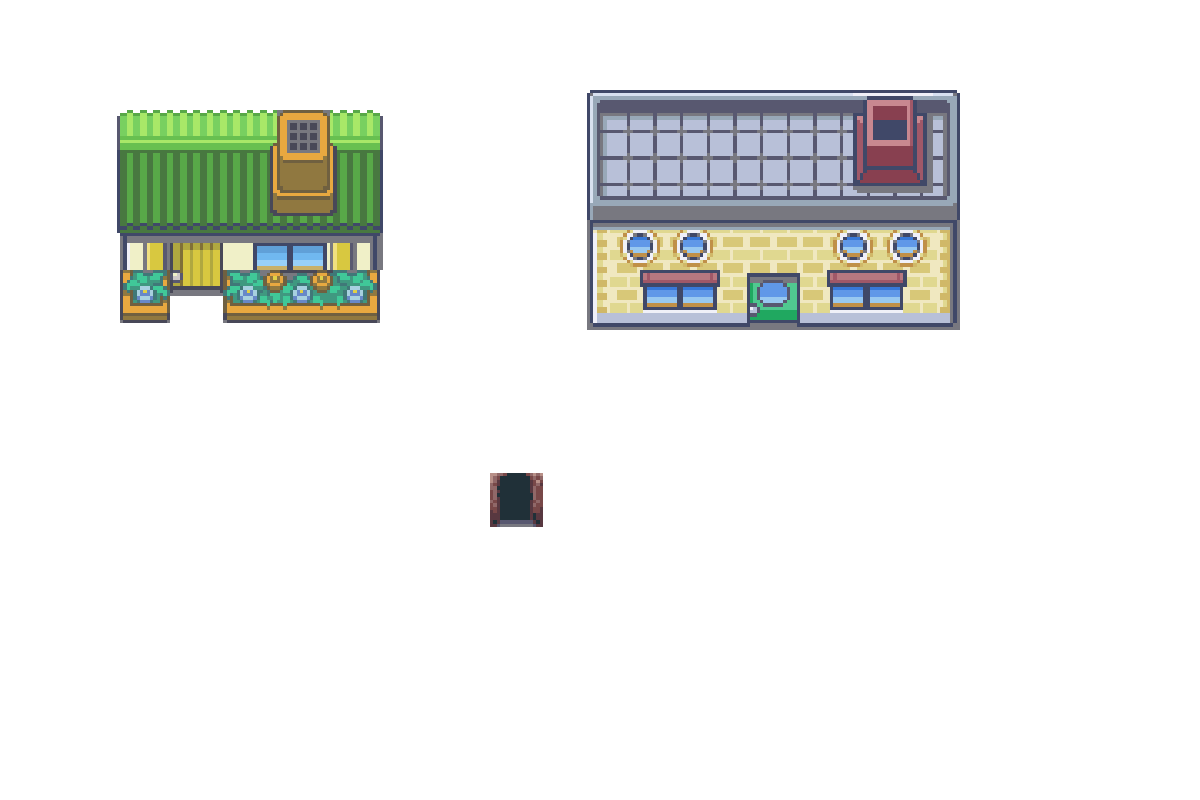
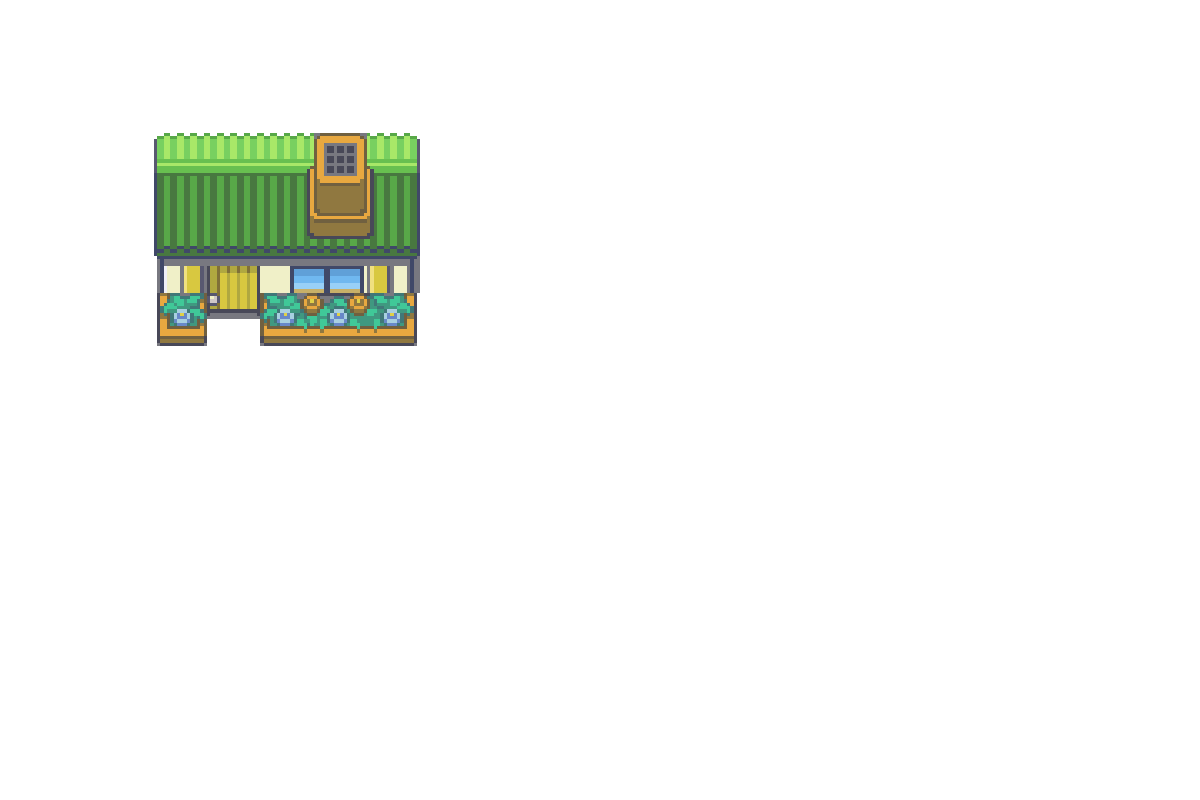
feat: hover objects

Changed region(s): [[0.4625, 0.0938, 0.8017, 0.4375], [0.0925, 0.125, 0.37, 0.4375], [0.4008, 0.5938, 0.4625, 0.6562]]

diff --git a/Visualize/LoginScreen.py b/Visualize/LoginScreen.py
@@ -9,6 +9,7 @@ from Visualize.morph_image import blur_screen
 
 FILENAME = "miniTown_BG.png"
 
+
 # [PROTOTYPE]
 PARAMS = {
     "resources": "Visualize/Resources/",
@@ -26,6 +27,12 @@ OBJECTS_POS_RES = {
     "Login" : ((103, 227), (260,210)),
     "Register" : (10, 22),
     "Exit" : (13, 4)
+}
+
+HOVER_IMG = {
+    "Login": "miniTown_BG_login_hover.png",
+    "Register": "miniTown_BG_register_hover.png",
+    "Exit": "miniTown_BG_exit_hover.png"
 }
 # [PROTOTYPE]
 WHITE = (200, 200, 200)
@@ -58,8 +65,8 @@ class LoginScreen:
         :param path_resources:
         """
         self.resolution, self.cell = res_cel
-        self.frame = morph_image(path_resources + FILENAME, self.resolution)
         self.pth_re = path_resources
+        self.frame = morph_image(self.pth_re + FILENAME, self.resolution)
         print(self.pth_re)
         self.screen = screen
         self.door_pos = {
@@ -75,6 +82,7 @@ class LoginScreen:
         :return:
         """
 
+        
         # Background and stuff go here
         self.screen.blit(self.frame, (0, 0))
         # drawGrid(screen=self.screen)
@@ -93,78 +101,73 @@ class LoginScreen:
             (self.resolution[0] - panel_shape[0]) / 2, (self.resolution[1] - panel_shape[1]) / 2))
         self.create_font()  # Create font for text input
 
+        #flag of getting an object
+        self.chosen_obj = None
+        self.hovered_obj = None
 
-        # a class to handle objects
-        class House:
-            def __init__(self, name, on_hover=False):
-                self.pth_re = "Visualize/Resources/"
-                self.name = name
-                if on_hover:
-                    self.box = morph_image(self.pth_re + self.name + "_hover.png", OBJECTS_POS_RES[self.name][1])
-                else:
-                    self.box = morph_image(self.pth_re + self.name + "_unhover.png", OBJECTS_POS_RES[self.name][1])
-                self.pos = OBJECTS_POS_RES[self.name][0]
-
-            def get_box(self):
-                return self.box
-                                
-
-        self.running = True
+        self.running = True 
         while self.running:
 
-            for event in pygame.event.get():
-                if event.type == pygame.QUIT:
-                    running = False
-                    # pygame.quit()
-                    return False  # Fucking transmit signal to another scene here, this is just a prototype
-                
-                if event.type == pygame.KEYDOWN:
-                    pressed = event.key
-                    if self.player.handle_event(pressed):  # Handle interact from player
-                        pass
-                    if self.player.get_grid_pos() in self.door_pos:
-                        self.textinput_custom.update(events)
-                        self.toggle_panel(event, self.door_pos[self.player.get_grid_pos()])
-                        continue
-                    self.player.update(
-                        self.screenCopy)  # NEED TO OPTIMIZED, https://stackoverflow.com/questions/61399822/how-to-move-character-in-pygame-without-filling-background
-                
-                # handle click event
-                if event.type == pygame.MOUSEBUTTONDOWN:
-                    print(pos)
-                    if pygame.mouse.get_pressed()[0]:
-                        pos = pygame.mouse.get_pos() 
-                        x, y = (pos[1] // PARAMS["cell"][0]), (pos[0] // PARAMS["cell"][1])
-                        for key in OBJECTS.keys():
-                            if [x,y] in OBJECTS[key]:
-                                self.toggle_panel(event, key)
-                                break
-                        self.player.update(self.screenCopy)            
-
-
-            # check if mouse is on object
+            #get mouse position
             pos = pygame.mouse.get_pos() 
             x, y = (pos[1] // PARAMS["cell"][0]), (pos[0] // PARAMS["cell"][1])
 
-            cur_obj = None
-            for key in OBJECTS.keys():
-                if [x,y] in OBJECTS[key]:
-                    cur_obj = key
-                    break   
+            # handle hover event [NEED TO OPTIMIZE]
+            if not self.chosen_obj: #if not chosen any object
+                for key in OBJECTS.keys():
+                    if [x,y] in OBJECTS[key]:
+                        self.hovered_obj = key
+                        break   
 
-            if cur_obj:
-                house = House(cur_obj, on_hover=True)
-                house_box = house.get_box()
-                self.screen.blit(house_box, (house.pos[0], house.pos[1]))
-                pygame.display.flip()
-            else:
-                for key in ["Login"]: #OBJECTS.keys(): fix later
-                    house = House(key, on_hover=False)
-                    house_box = house.get_box()
-                    self.screen.blit(house_box, (house.pos[0], house.pos[1]))
-                    pygame.display.flip()
+                if self.hovered_obj :
+                    self.frame = morph_image(self.pth_re + HOVER_IMG[self.hovered_obj], self.resolution)
+                    self.screen.blit(self.frame, (0, 0))
+                    self.screenCopy = self.screen.copy()
+                    self.player.update(self.screenCopy)
+                    self.hovered_obj = None
+                else:
+                    self.frame = morph_image(self.pth_re + FILENAME, self.resolution)
+                    self.screen.blit(self.frame, (0, 0))
+                    self.screenCopy = self.screen.copy()
+                    self.player.update(self.screenCopy)
+
+
+            events = pygame.event.get()
+            for event in events:
+
+                if event.type == pygame.QUIT:
+                    self.running = False
+                    # pygame.quit()
+                    return False  # Fucking transmit signal to another scene here, this is just a prototype
                 
+                # handle click event
+                if event.type == pygame.MOUSEBUTTONDOWN and not self.chosen_obj:
+                    if pygame.mouse.get_pressed()[0]:
+                        for key in OBJECTS.keys():
+                            if [x,y] in OBJECTS[key]:
+                                self.chosen_obj = key
+                                self.toggle_panel(event, self.chosen_obj)
+                                break
+                
+                if event.type == pygame.KEYDOWN:  
+                    if self.chosen_obj: # if theres already a chosen object
+                        self.textinput_custom.update(events)
+                        self.toggle_panel(event, self.chosen_obj)
+                        continue  
+                    pressed = event.key
+                    if self.player.handle_event(pressed):  # Handle interact from player
+                        pass
+                    if self.player.get_grid_pos() in self.door_pos and not self.chosen_obj: #pass if there currently is a chosen object
+                        self.chosen_obj = self.door_pos[self.player.get_grid_pos()] #update chosen object
+                        self.textinput_custom.update(events)
+                        self.toggle_panel(event, self.door_pos[self.player.get_grid_pos()])
+                        continue
+                
+                    self.player.update(self.screenCopy)  # NEED TO OPTIMIZED, https://stackoverflow.com/questions/61399822/how-to-move-character-in-pygame-without-filling-background
+                    
 
+                        
+            
 
             # self.screen.blit(self.frame, (0, 0))
             # pygame.display.flip()

diff --git a/Player.py b/Player.py
@@ -4,7 +4,12 @@ import cv2
 from GridMapObject import GridMapObject as Gmo
 from Visualize.morph_image import morph_image
 
-AVATAR = ["tom_icon_1.png", "tom_icon_2.png", "tom_icon_3.png", "tom_icon_4.png"]
+AVATAR = {
+    "up": "tom_icon_4.png",
+    "right": "tom_icon_2.png",
+    "left": "tom_icon_3.png",
+    "down": "tom_icon_1.png"
+}
 
 
 class Player:
@@ -19,7 +24,7 @@ class Player:
         :param grid_map:
         :param current_scene:
         """
-        self.avatar = morph_image("Visualize/Resources/" + AVATAR[0], res_cell[1][current_scene]) # [PROTOTYPE]
+        self.avatar = morph_image("Visualize/Resources/" + AVATAR['down'], res_cell[1][current_scene]) # [PROTOTYPE]
         self.active = True
         self.screen = screen
         self.grid_map = grid_map
@@ -53,16 +58,16 @@ class Player:
         # NEED OPTIMIZE HERE
         if key_pressed == pygame.K_RIGHT or key_pressed == pygame.K_d:
             self.move("right")
-            self.avatar = morph_image("Visualize/Resources/" + AVATAR[1], resolution=self.cell)
+            self.avatar = morph_image("Visualize/Resources/" + AVATAR['right'], resolution=self.cell)
         if key_pressed == pygame.K_LEFT or key_pressed == pygame.K_a:
             self.move("left")
-            self.avatar = morph_image("Visualize/Resources/" + AVATAR[2], resolution=self.cell)
+            self.avatar = morph_image("Visualize/Resources/" + AVATAR['left'], resolution=self.cell)
         if key_pressed == pygame.K_DOWN or key_pressed == pygame.K_s:
             self.move("down")
-            self.avatar = morph_image("Visualize/Resources/" + AVATAR[0], resolution=self.cell)
+            self.avatar = morph_image("Visualize/Resources/" + AVATAR["down"], resolution=self.cell)
         if key_pressed == pygame.K_UP or key_pressed == pygame.K_w:
             self.move("up")
-            self.avatar = morph_image("Visualize/Resources/" + AVATAR[3], resolution=self.cell)
+            self.avatar = morph_image("Visualize/Resources/" + AVATAR['up'], resolution=self.cell)
         if key_pressed == pygame.K_e:
             self.interact()
             return True

diff --git a/GameController.py b/GameController.py
@@ -30,8 +30,8 @@ class GameController:
     def __init__(self):
         pygame.init()
         pygame.key.set_repeat(200, 125)
-        # initial_scene = "Login"
-        initial_scene = "Menu"
+        initial_scene = "Login"
+        # initial_scene = "Menu"
         self.game_state_manager = GameStateManager(initial_scene)  # [PROTOTYPE]
         self.clock = pygame.time.Clock()  # Define a variable to control the main loop
         self.screen = pygame.display.set_mode(
